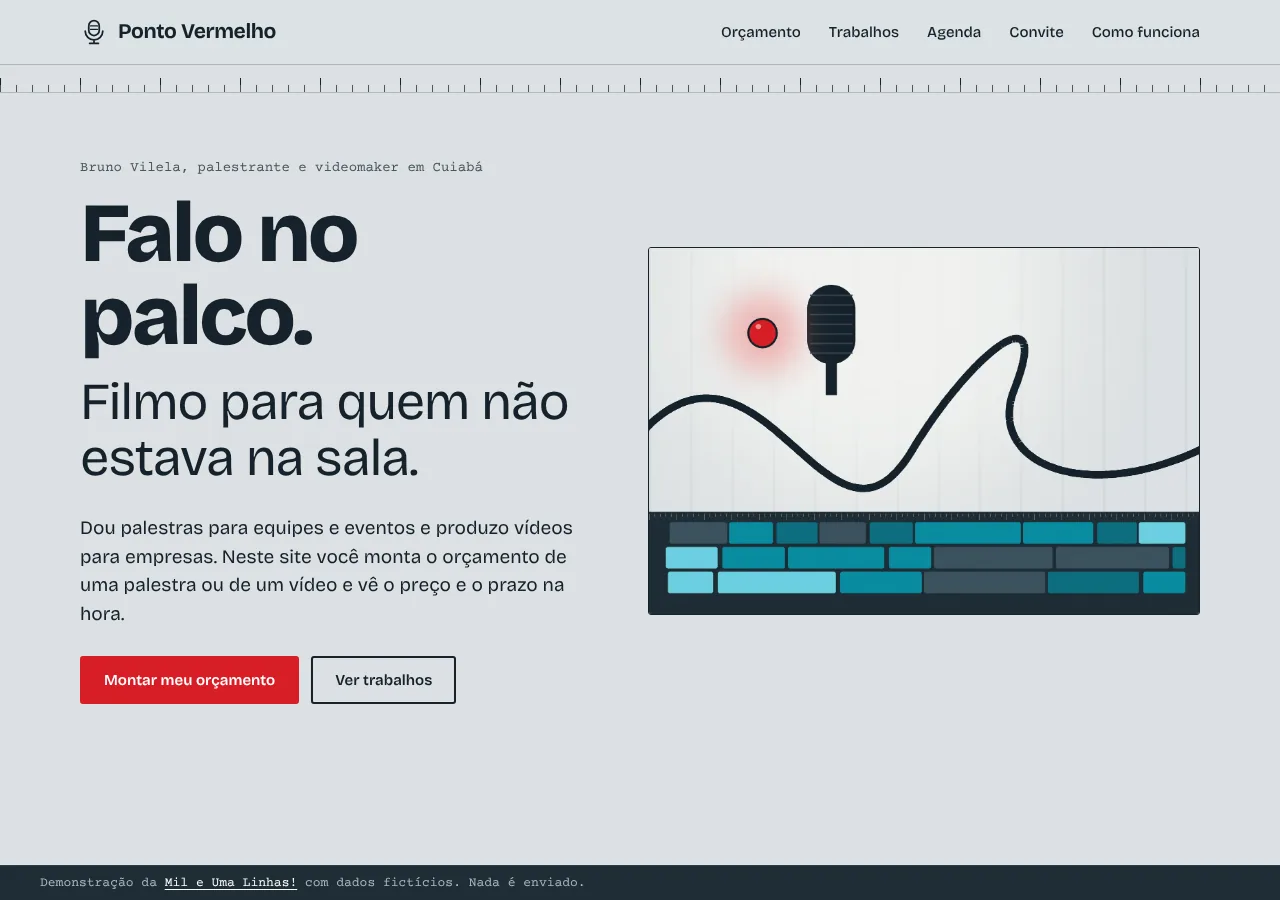
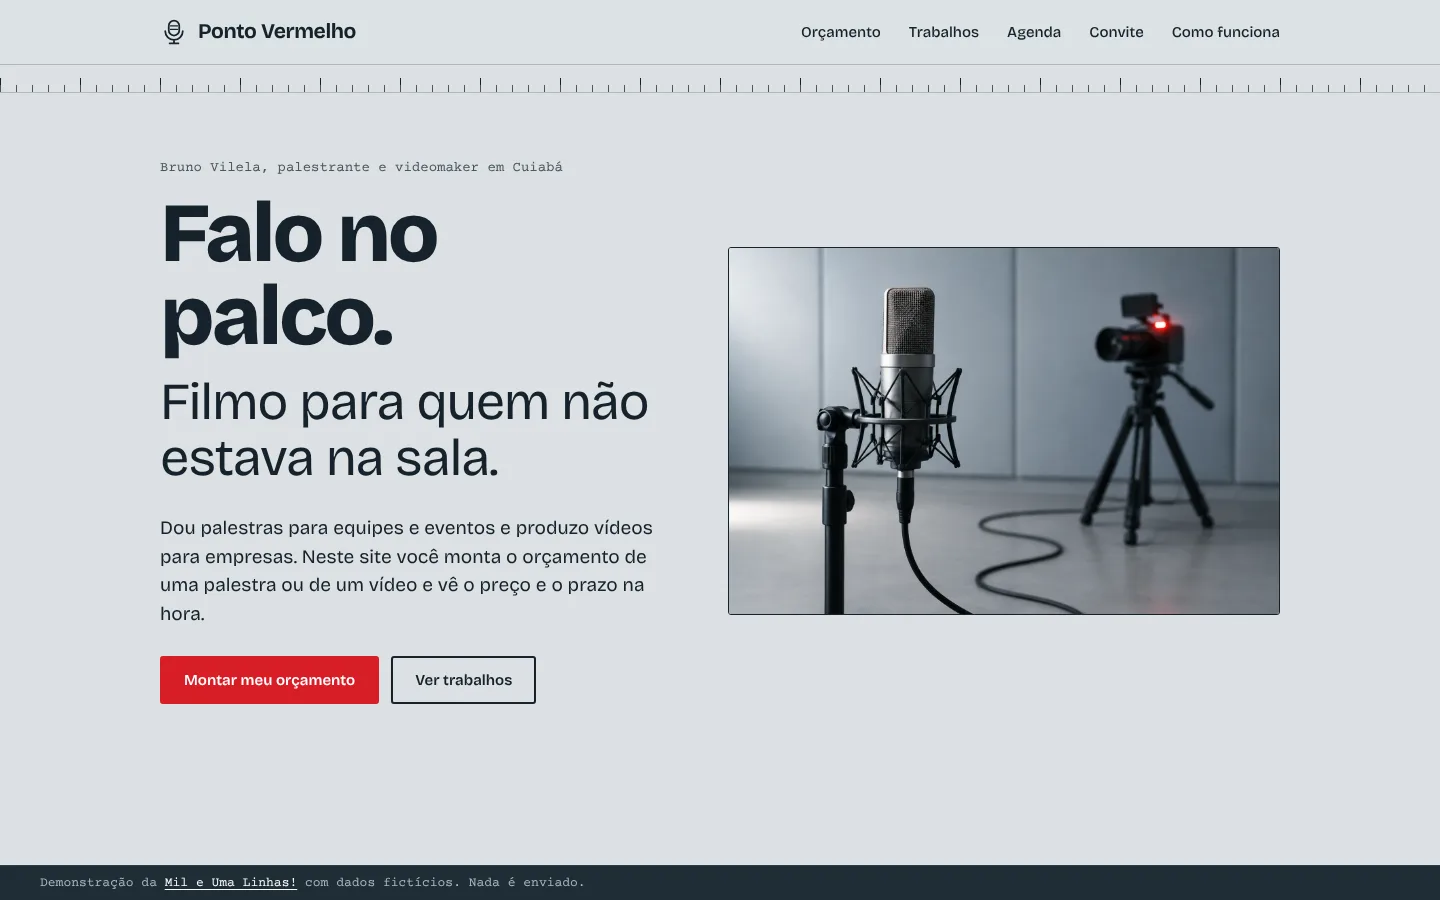
Troca o hero por foto gerada no Canva
Substitui img/hero.webp, antes uma composicao provisoria feita com
Pillow, por uma foto gerada por IA no Canva a partir do prompt da secao
"Foto do hero" de docs/identidade.md. Ajusta largura, altura e texto
alternativo da imagem no index.html, o teste de largura em
tests/site.cjs, o README e a documentacao, e refaz as capturas
docs/capa-desktop.webp e docs/capa-celular.webp. Testes em 1280x900,
iPhone 13 e 320px passando.

Claude-Session: https://claude.ai/code/session_015DVsuVad392kn1wvAjF541

diff --git a/index.html b/index.html
@@ -54,7 +54,7 @@
           </div>
         </div>
         <figure class="hero-moldura">
-          <img class="hero-foto" src="img/hero.webp" width="1600" height="1067" alt="Ilustração provisória: um microfone de estúdio ao lado de uma luz vermelha acesa, com o cabo ondulando sobre a parede e, na base, uma linha do tempo de edição de vídeo com blocos azuis.">
+          <img class="hero-foto" src="img/hero.webp" width="1620" height="1080" alt="Microfone de estúdio em primeiro plano e, ao fundo, uma câmera sobre tripé com a luz vermelha de gravação acesa.">
         </figure>
       </div>
     </section>

diff --git a/tools/gerar-imagens.py b/tools/gerar-imagens.py
@@ -218,6 +218,6 @@ def posters():
 
 if __name__ == "__main__":
     os.makedirs(PASTA, exist_ok=True)
-    hero()
+    # hero() desativado: img/hero.webp agora é a foto do Canva e não deve ser recriada
     posters()
     print("imagens geradas em", os.path.abspath(PASTA))

diff --git a/README.md b/README.md
@@ -62,7 +62,7 @@ Cada função é um pequeno programa que roda no navegador de quem visita. Os pr
 - Orçamento de vídeo: `minutos x valor por minuto do tipo + diárias x valor da diária`, mais drone (por diária) e legendas (por minuto). O prazo soma dias úteis de edição e diz a data de entrega "se gravarmos hoje".
 - Visor do mural: `<dialog>` com controle deslizante e relógio simulado. Não existe arquivo de vídeo. Com movimento reduzido, o relógio avança de segundo em segundo.
 - Agenda: a regra de ocupação depende só da data, então o calendário é sempre igual. Pré-reservas em `localStorage` (chave `pv-prereservas`).
-- Imagens: `tools/gerar-imagens.py` (Pillow) gera `img/hero.webp` e os pôsteres. O `hero.webp` é provisório e será trocado por uma foto.
+- Imagens: `img/hero.webp` é uma foto gerada por IA no Canva (1620x1080). `tools/gerar-imagens.py` (Pillow) gera só os pôsteres do mural; o script ainda recria um hero provisório, que não deve ser usado no lugar da foto.
 - Acessibilidade: contraste AA, foco visível, navegação por teclado, `alt` nas imagens, `lang="pt-BR"`, rótulos em todos os campos e mensagens de erro ligadas aos campos.
 
 ## Como rodar
